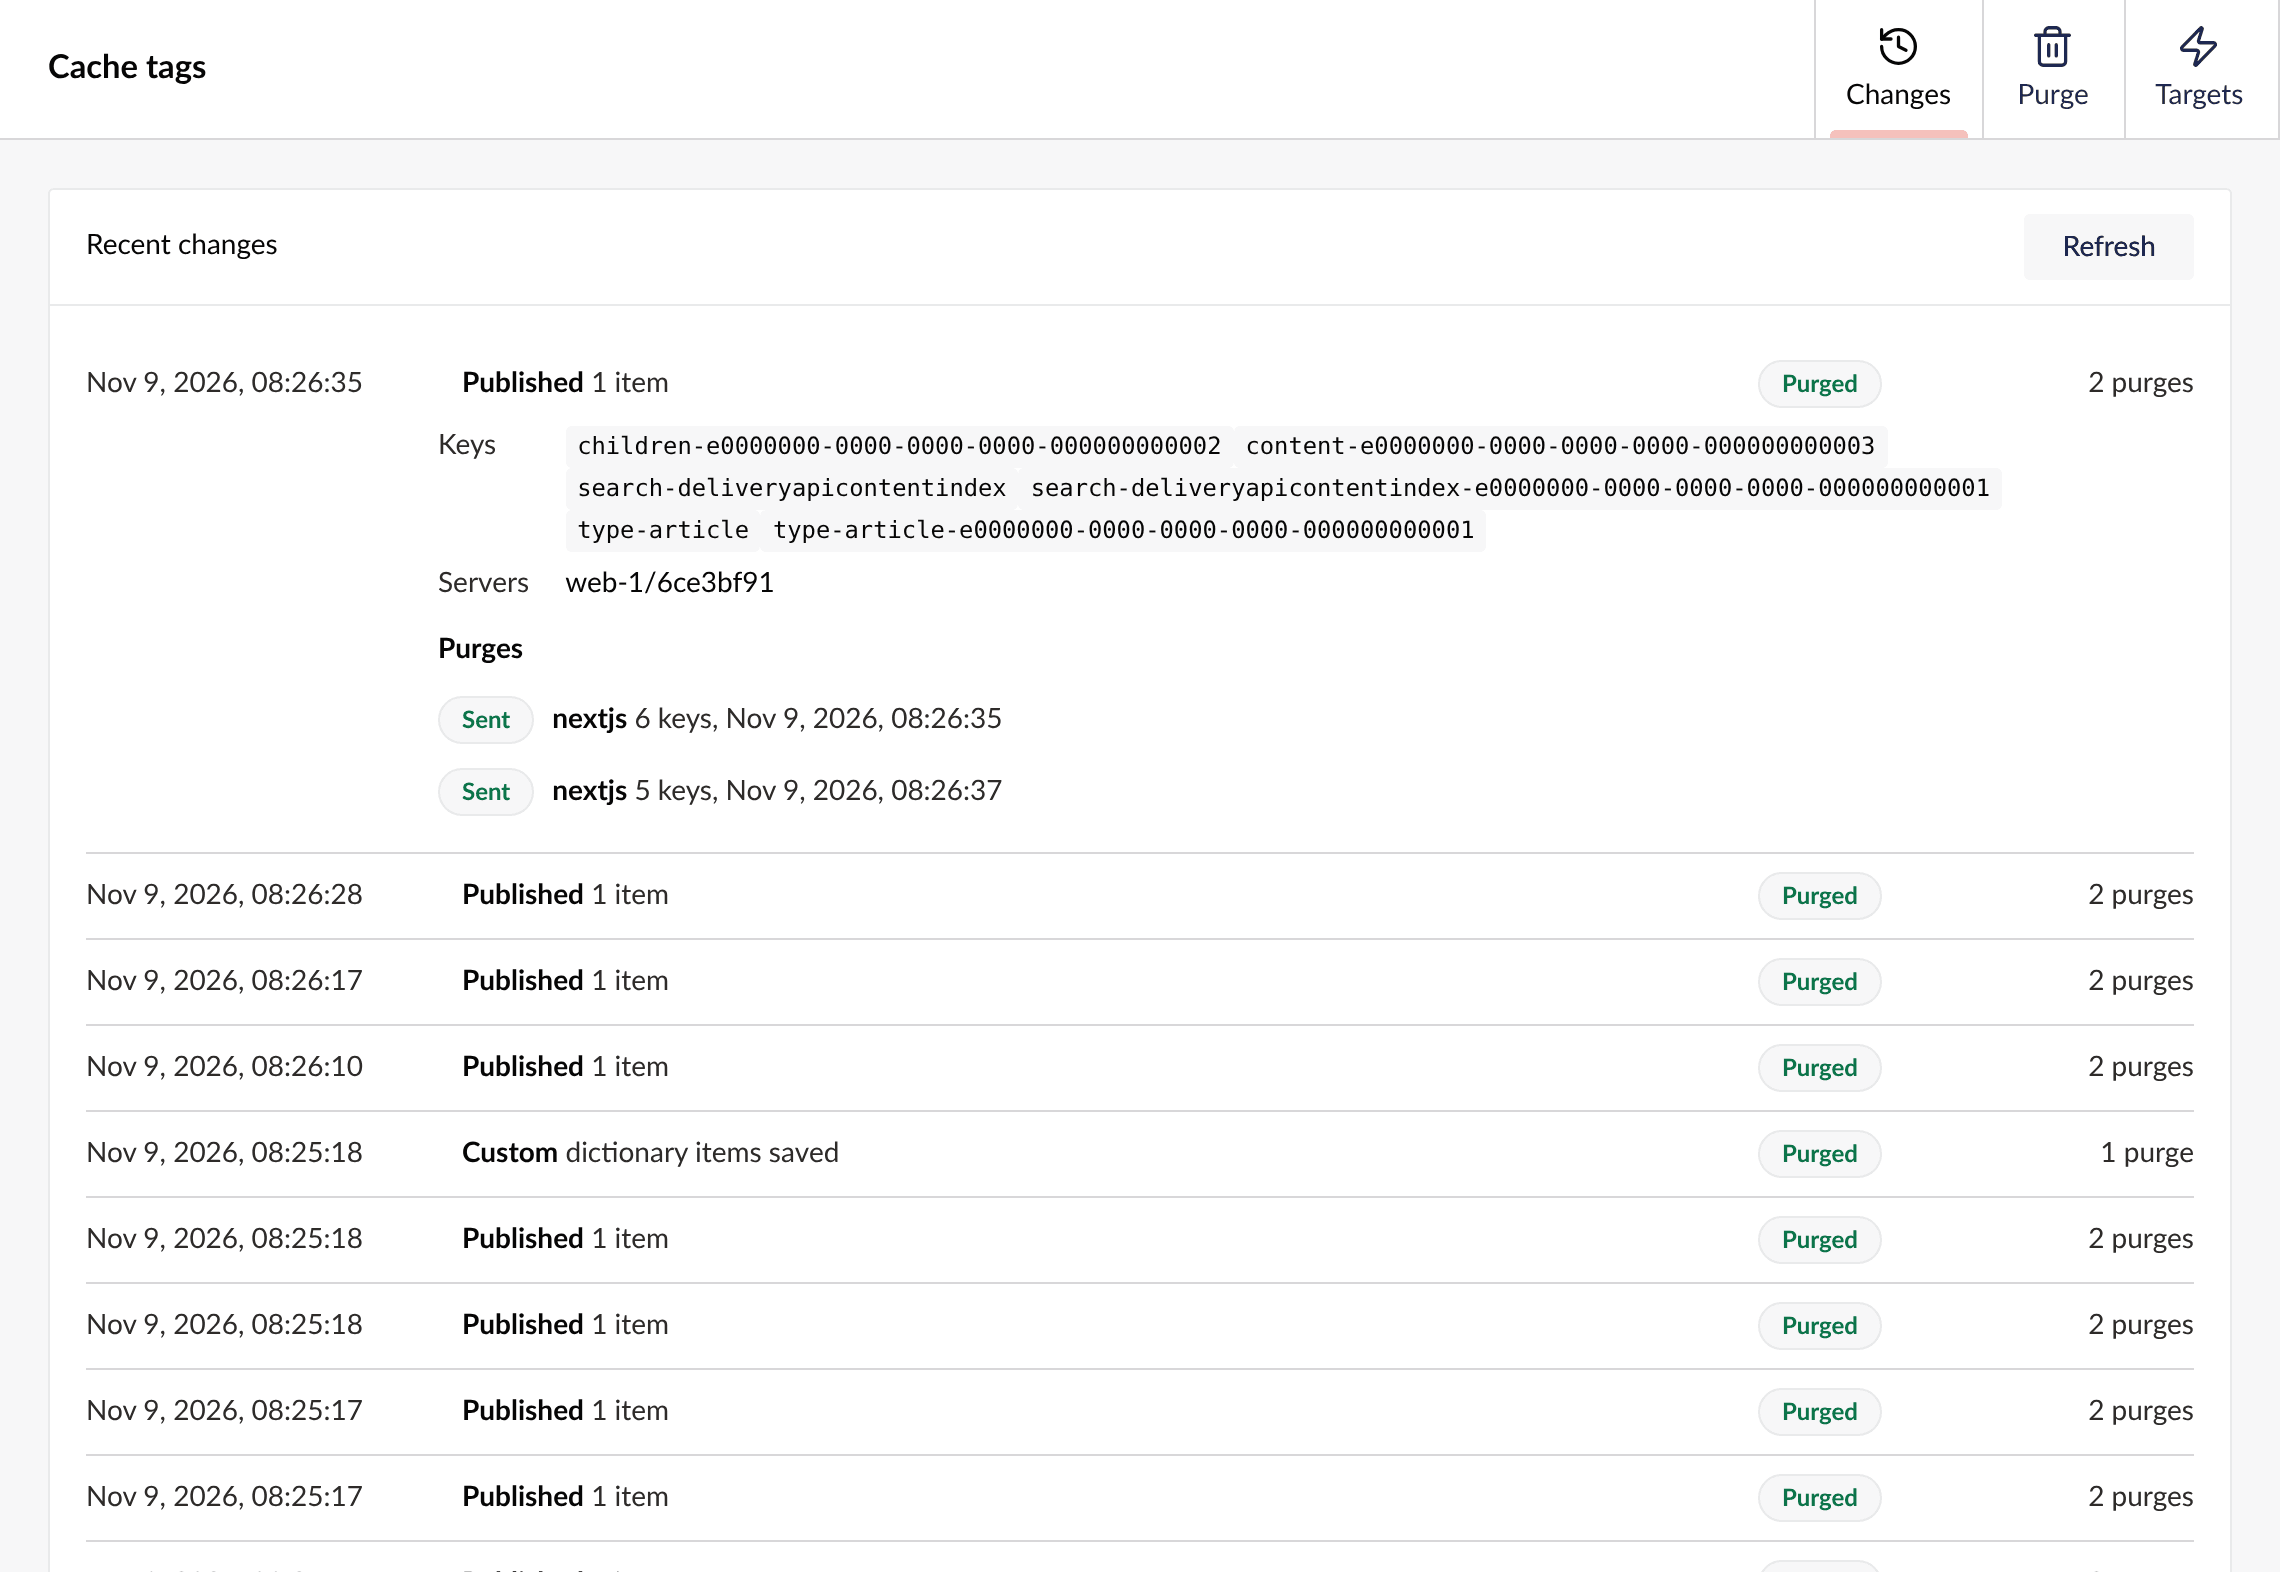
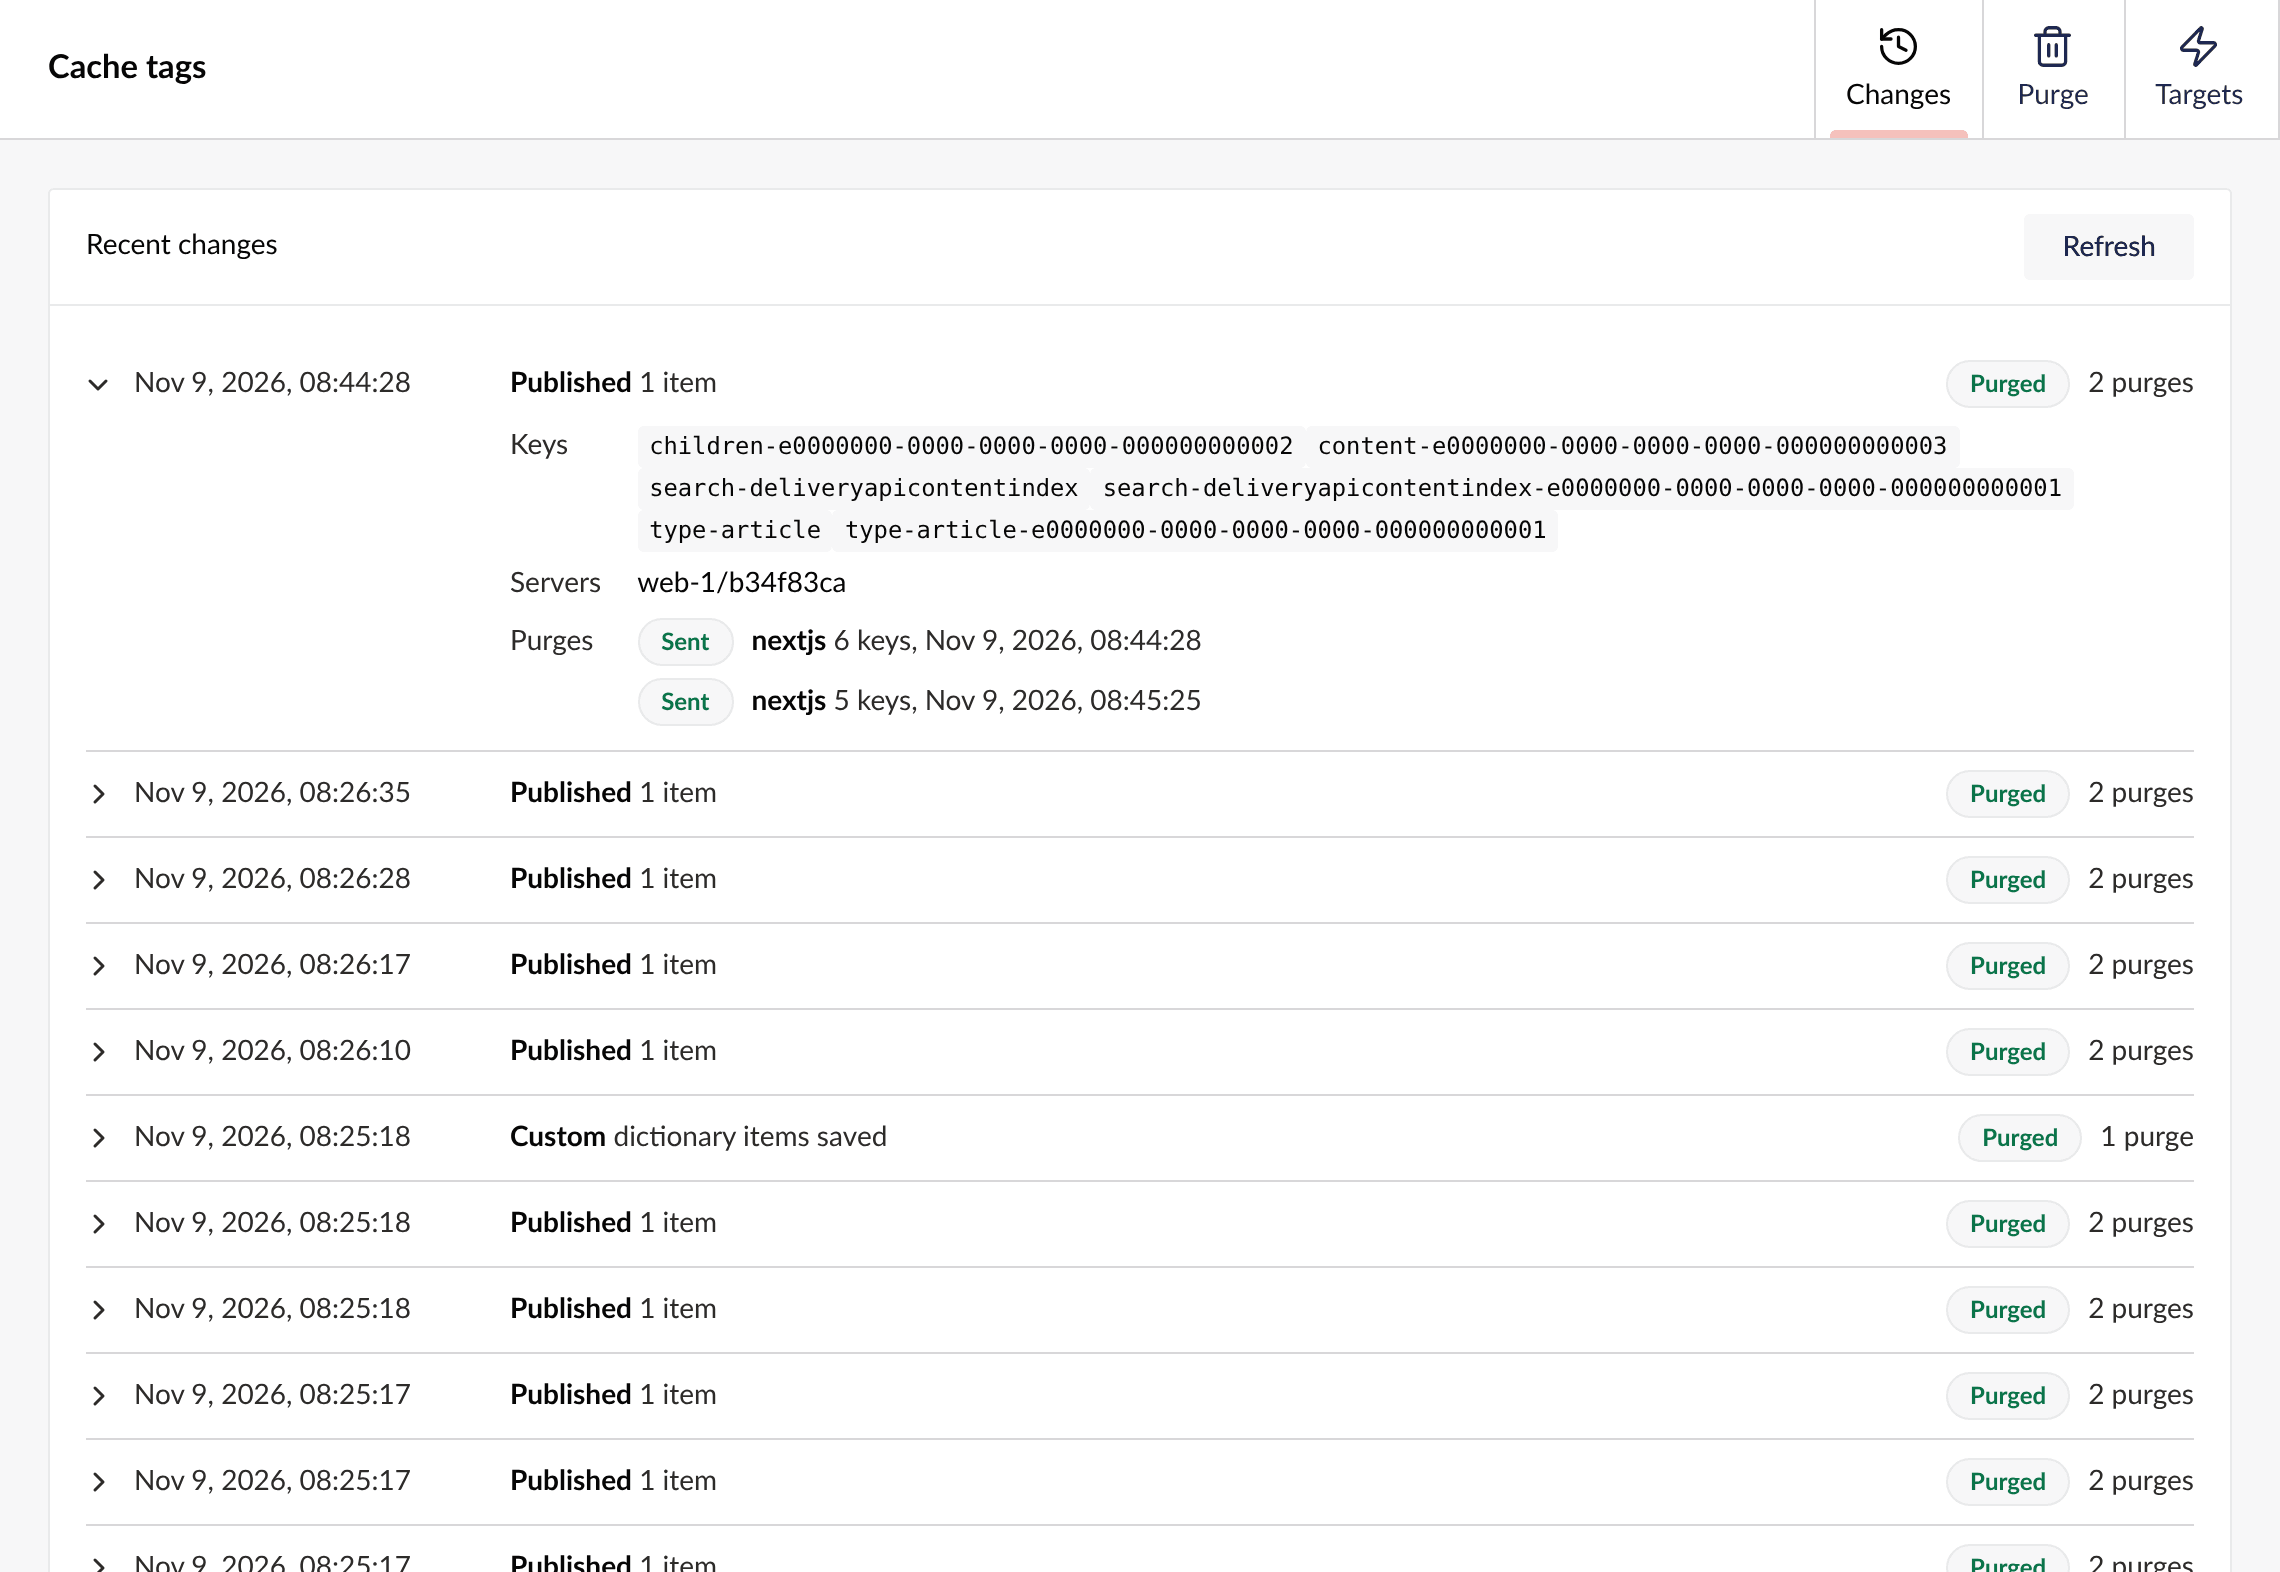
Line up Recent changes: chevron, aligned details, Purges as a row
Each change shows a chevron so it reads as openable, the details start
under what changed instead of 20px left of it, Purges is a row like Keys
and Servers rather than a heading, and the purge count sits beside the
status tag.

diff --git a/src/TheBuilder.CacheTags/Client/src/changes-view.element.ts b/src/TheBuilder.CacheTags/Client/src/changes-view.element.ts
@@ -149,17 +149,20 @@ export class CacheTagsChangesViewElement extends UmbElementMixin(LitElement) {
       <details
         class="change"
         ?open=${this.#open.has(change.id)}
-        @toggle=${(event: Event) =>
-          (event.target as HTMLDetailsElement).open ? this.#open.add(change.id) : this.#open.delete(change.id)}>
+        @toggle=${(event: Event) => {
+          (event.target as HTMLDetailsElement).open ? this.#open.add(change.id) : this.#open.delete(change.id);
+          this.requestUpdate();
+        }}>
         <summary>
+          <uui-symbol-expand ?open=${this.#open.has(change.id)}></uui-symbol-expand>
           <span class="when muted">${time(change.createdUtc)}</span>
           <span class="what"><strong>${change.kind}</strong> <span class="muted">${what}</span></span>
           <span class="tags">
             <uui-tag look="secondary" color=${stage.color} title=${stage.hint}>${stage.label}</uui-tag>
             ${change.notAcknowledgedBy.length > 0 ? html`<uui-tag look="secondary" color="danger" title="Some servers had not applied it when it was purged">Ack timeout</uui-tag>` : nothing}
             ${failed ? html`<uui-tag look="secondary" color="danger">Purge failed</uui-tag>` : nothing}
+            <span class="muted purges">${change.purges.length === 0 ? "No purges" : sent === change.purges.length ? plural(sent, "purge") : `${sent} of ${change.purges.length} sent`}</span>
           </span>
-          <span class="muted purges">${change.purges.length === 0 ? "No purges" : sent === change.purges.length ? plural(sent, "purge") : `${sent} of ${change.purges.length} sent`}</span>
         </summary>
         <div class="details">
           <dl>
@@ -177,8 +180,8 @@ export class CacheTagsChangesViewElement extends UmbElementMixin(LitElement) {
               ? html`<dt>Indexed by</dt><dd>${change.indexedBy.join(", ")}</dd>`
               : nothing}
             ${change.change.waitFor ? html`<dt>Waits for</dt><dd><span class="param">${change.change.waitFor}</span></dd>` : nothing}
+            ${change.purges.length > 0 ? html`<dt>Purges</dt><dd class="purge-list">${change.purges.map((purge) => this.#renderPurge(purge))}</dd>` : nothing}
           </dl>
-          ${change.purges.length > 0 ? html`<h4>Purges</h4>${change.purges.map((purge) => this.#renderPurge(purge))}` : nothing}
         </div>
       </details>
     `;
@@ -208,6 +211,10 @@ export class CacheTagsChangesViewElement extends UmbElementMixin(LitElement) {
     sharedStyles,
     css`
       .change {
+        /* The summary's columns, so the details line up under what changed. */
+        --chevron: 0.75rem;
+        --when: 11rem;
+        --gap: var(--uui-size-space-4);
         border-top: 1px solid var(--uui-color-border);
       }
       .change:first-of-type {
@@ -215,34 +222,47 @@ export class CacheTagsChangesViewElement extends UmbElementMixin(LitElement) {
       }
       summary {
         display: grid;
-        grid-template-columns: 11rem 1fr auto 9rem;
-        gap: var(--uui-size-space-4);
+        grid-template-columns: var(--chevron) var(--when) 1fr auto;
+        gap: var(--gap);
         align-items: center;
         padding: var(--uui-size-space-3) 0;
         cursor: pointer;
+        list-style: none;
+      }
+      summary::-webkit-details-marker {
+        display: none;
+      }
+      uui-symbol-expand {
+        width: var(--chevron);
+        color: var(--uui-color-text-alt);
       }
       .when,
       .purges {
         font-variant-numeric: tabular-nums;
       }
-      .purges {
-        text-align: right;
-      }
       .tags {
         display: flex;
-        gap: var(--uui-size-space-2);
+        gap: var(--uui-size-space-3);
+        align-items: center;
+        justify-content: flex-end;
       }
       .details {
-        padding: 0 0 var(--uui-size-space-4) 11rem;
+        padding: 0 0 var(--uui-size-space-4) calc(var(--chevron) + var(--when) + 2 * var(--gap));
       }
-      h4 {
-        margin: var(--uui-size-space-4) 0 var(--uui-size-space-2);
+      .details dl {
+        align-items: baseline;
+      }
+      .purge-list {
+        display: grid;
+        gap: var(--uui-size-space-2);
       }
       .purge {
         display: flex;
         gap: var(--uui-size-space-3);
         align-items: center;
         flex-wrap: wrap;
+      }
+      uui-box > .purge {
         padding: var(--uui-size-space-2) 0;
       }
       .actions {
